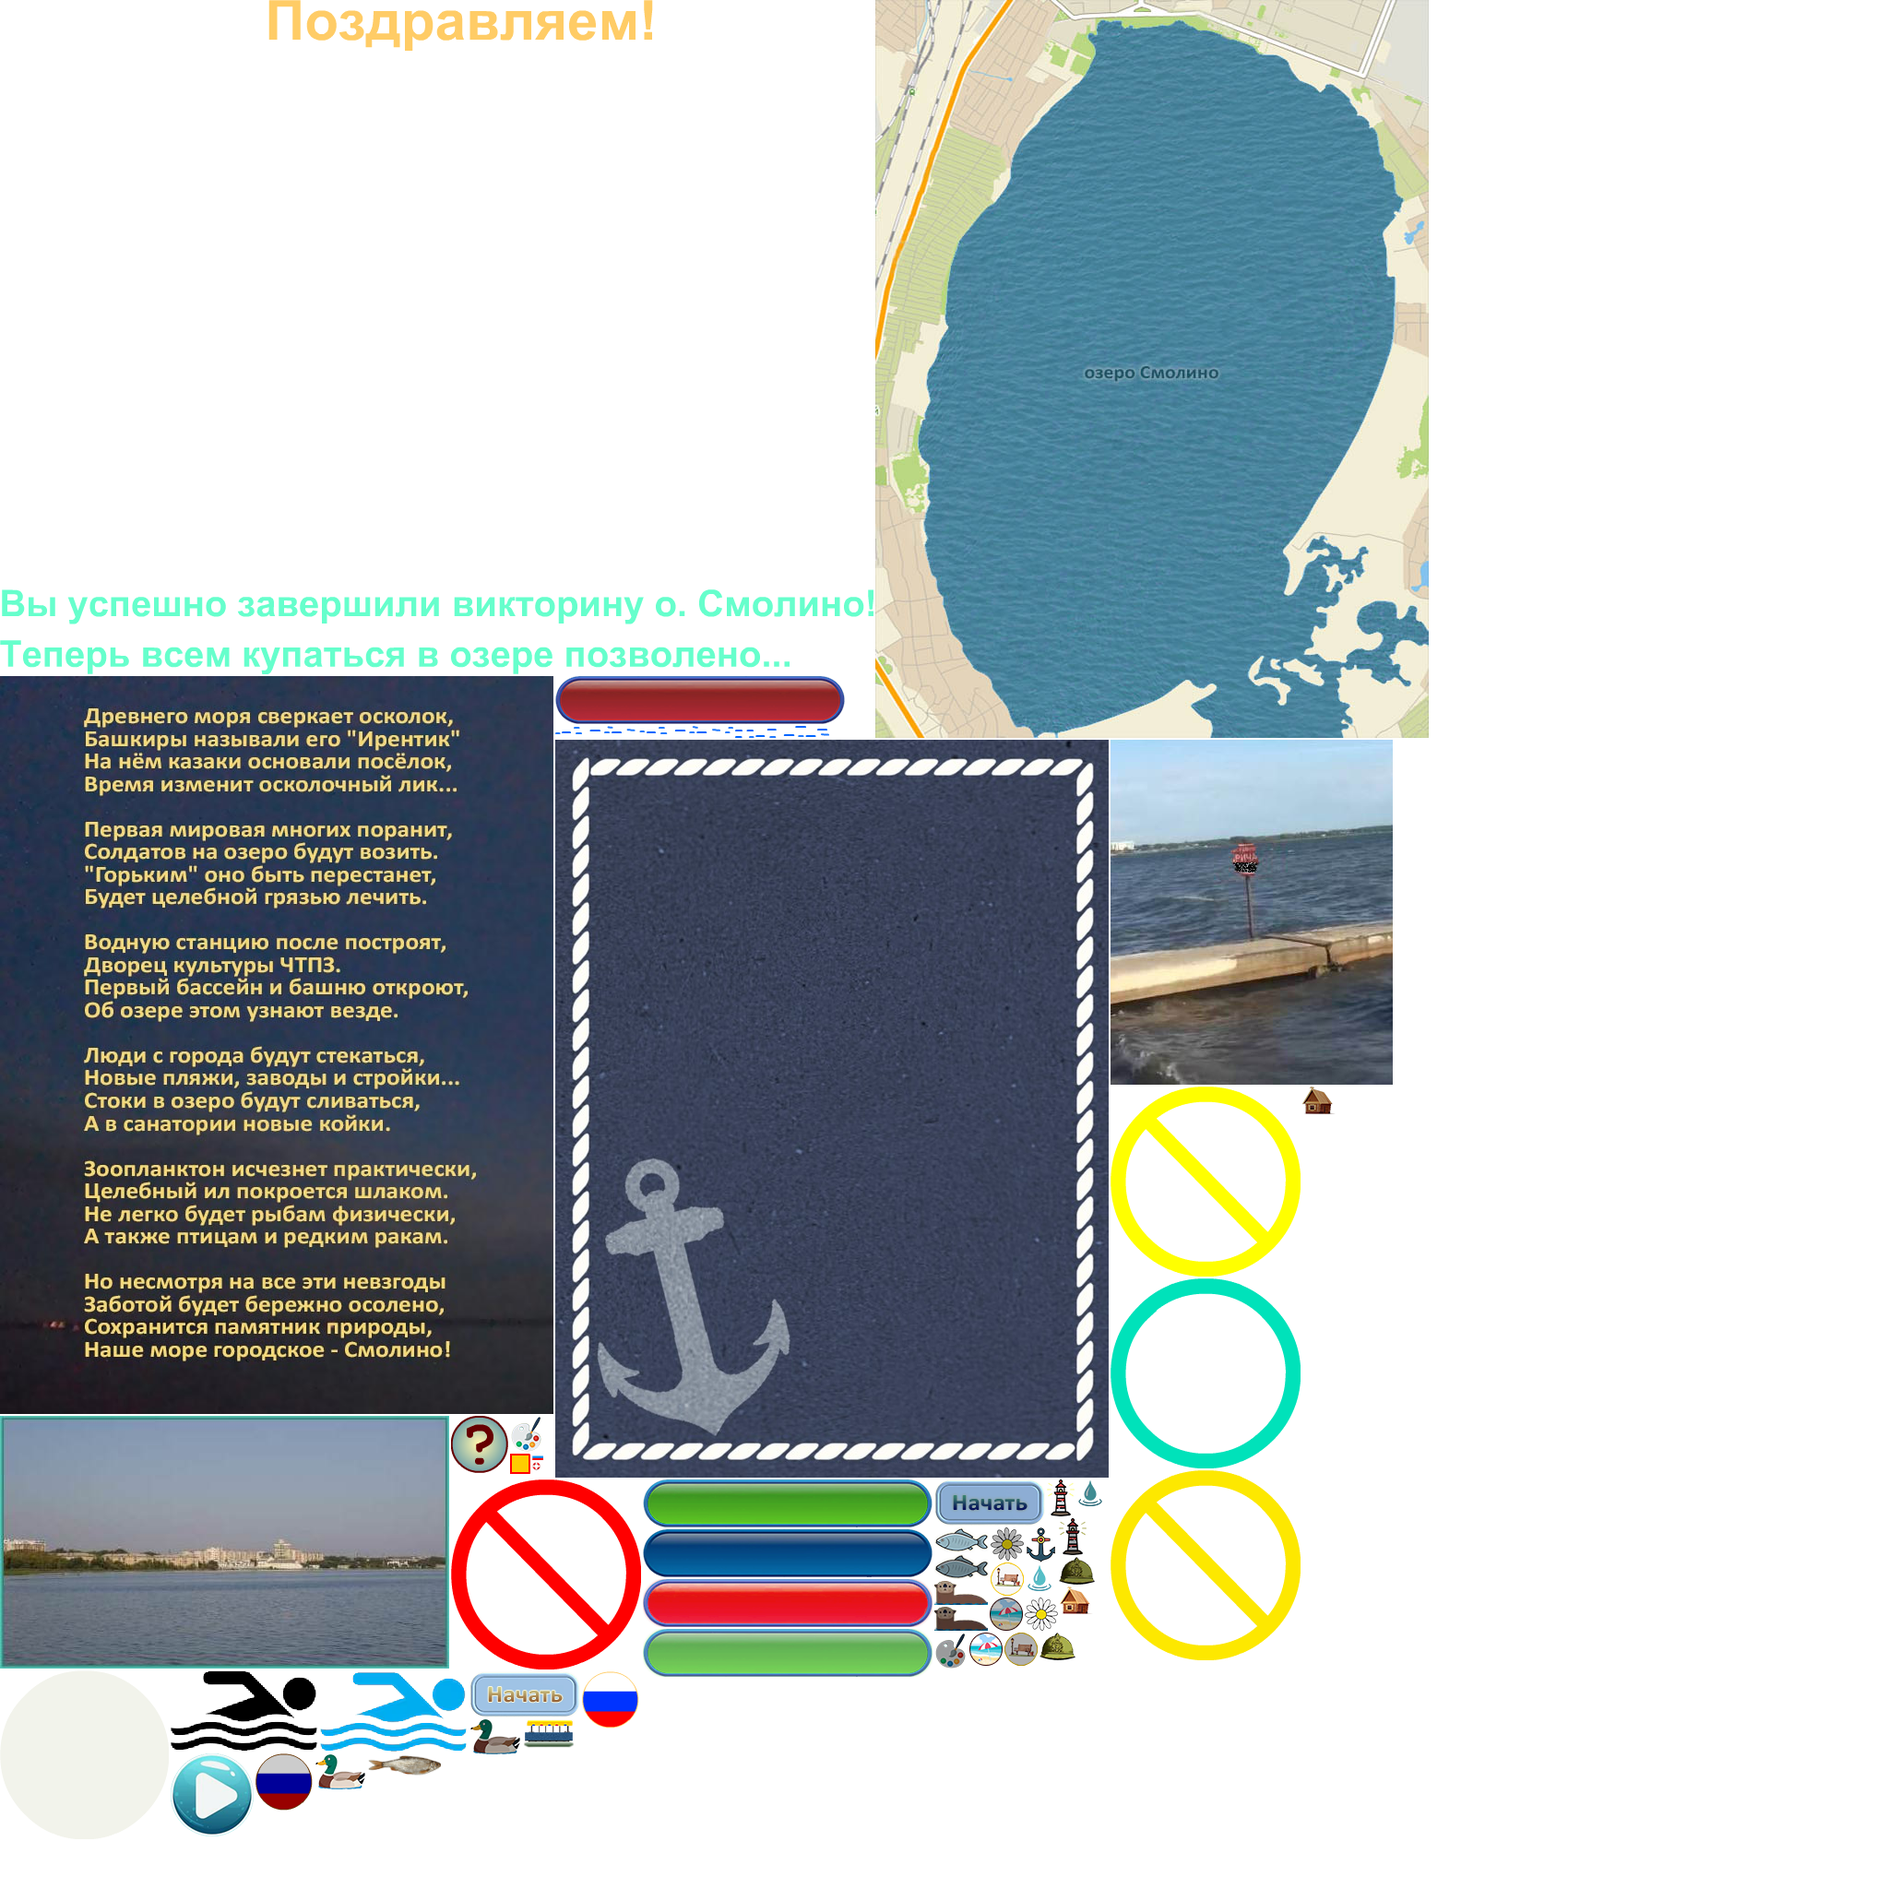
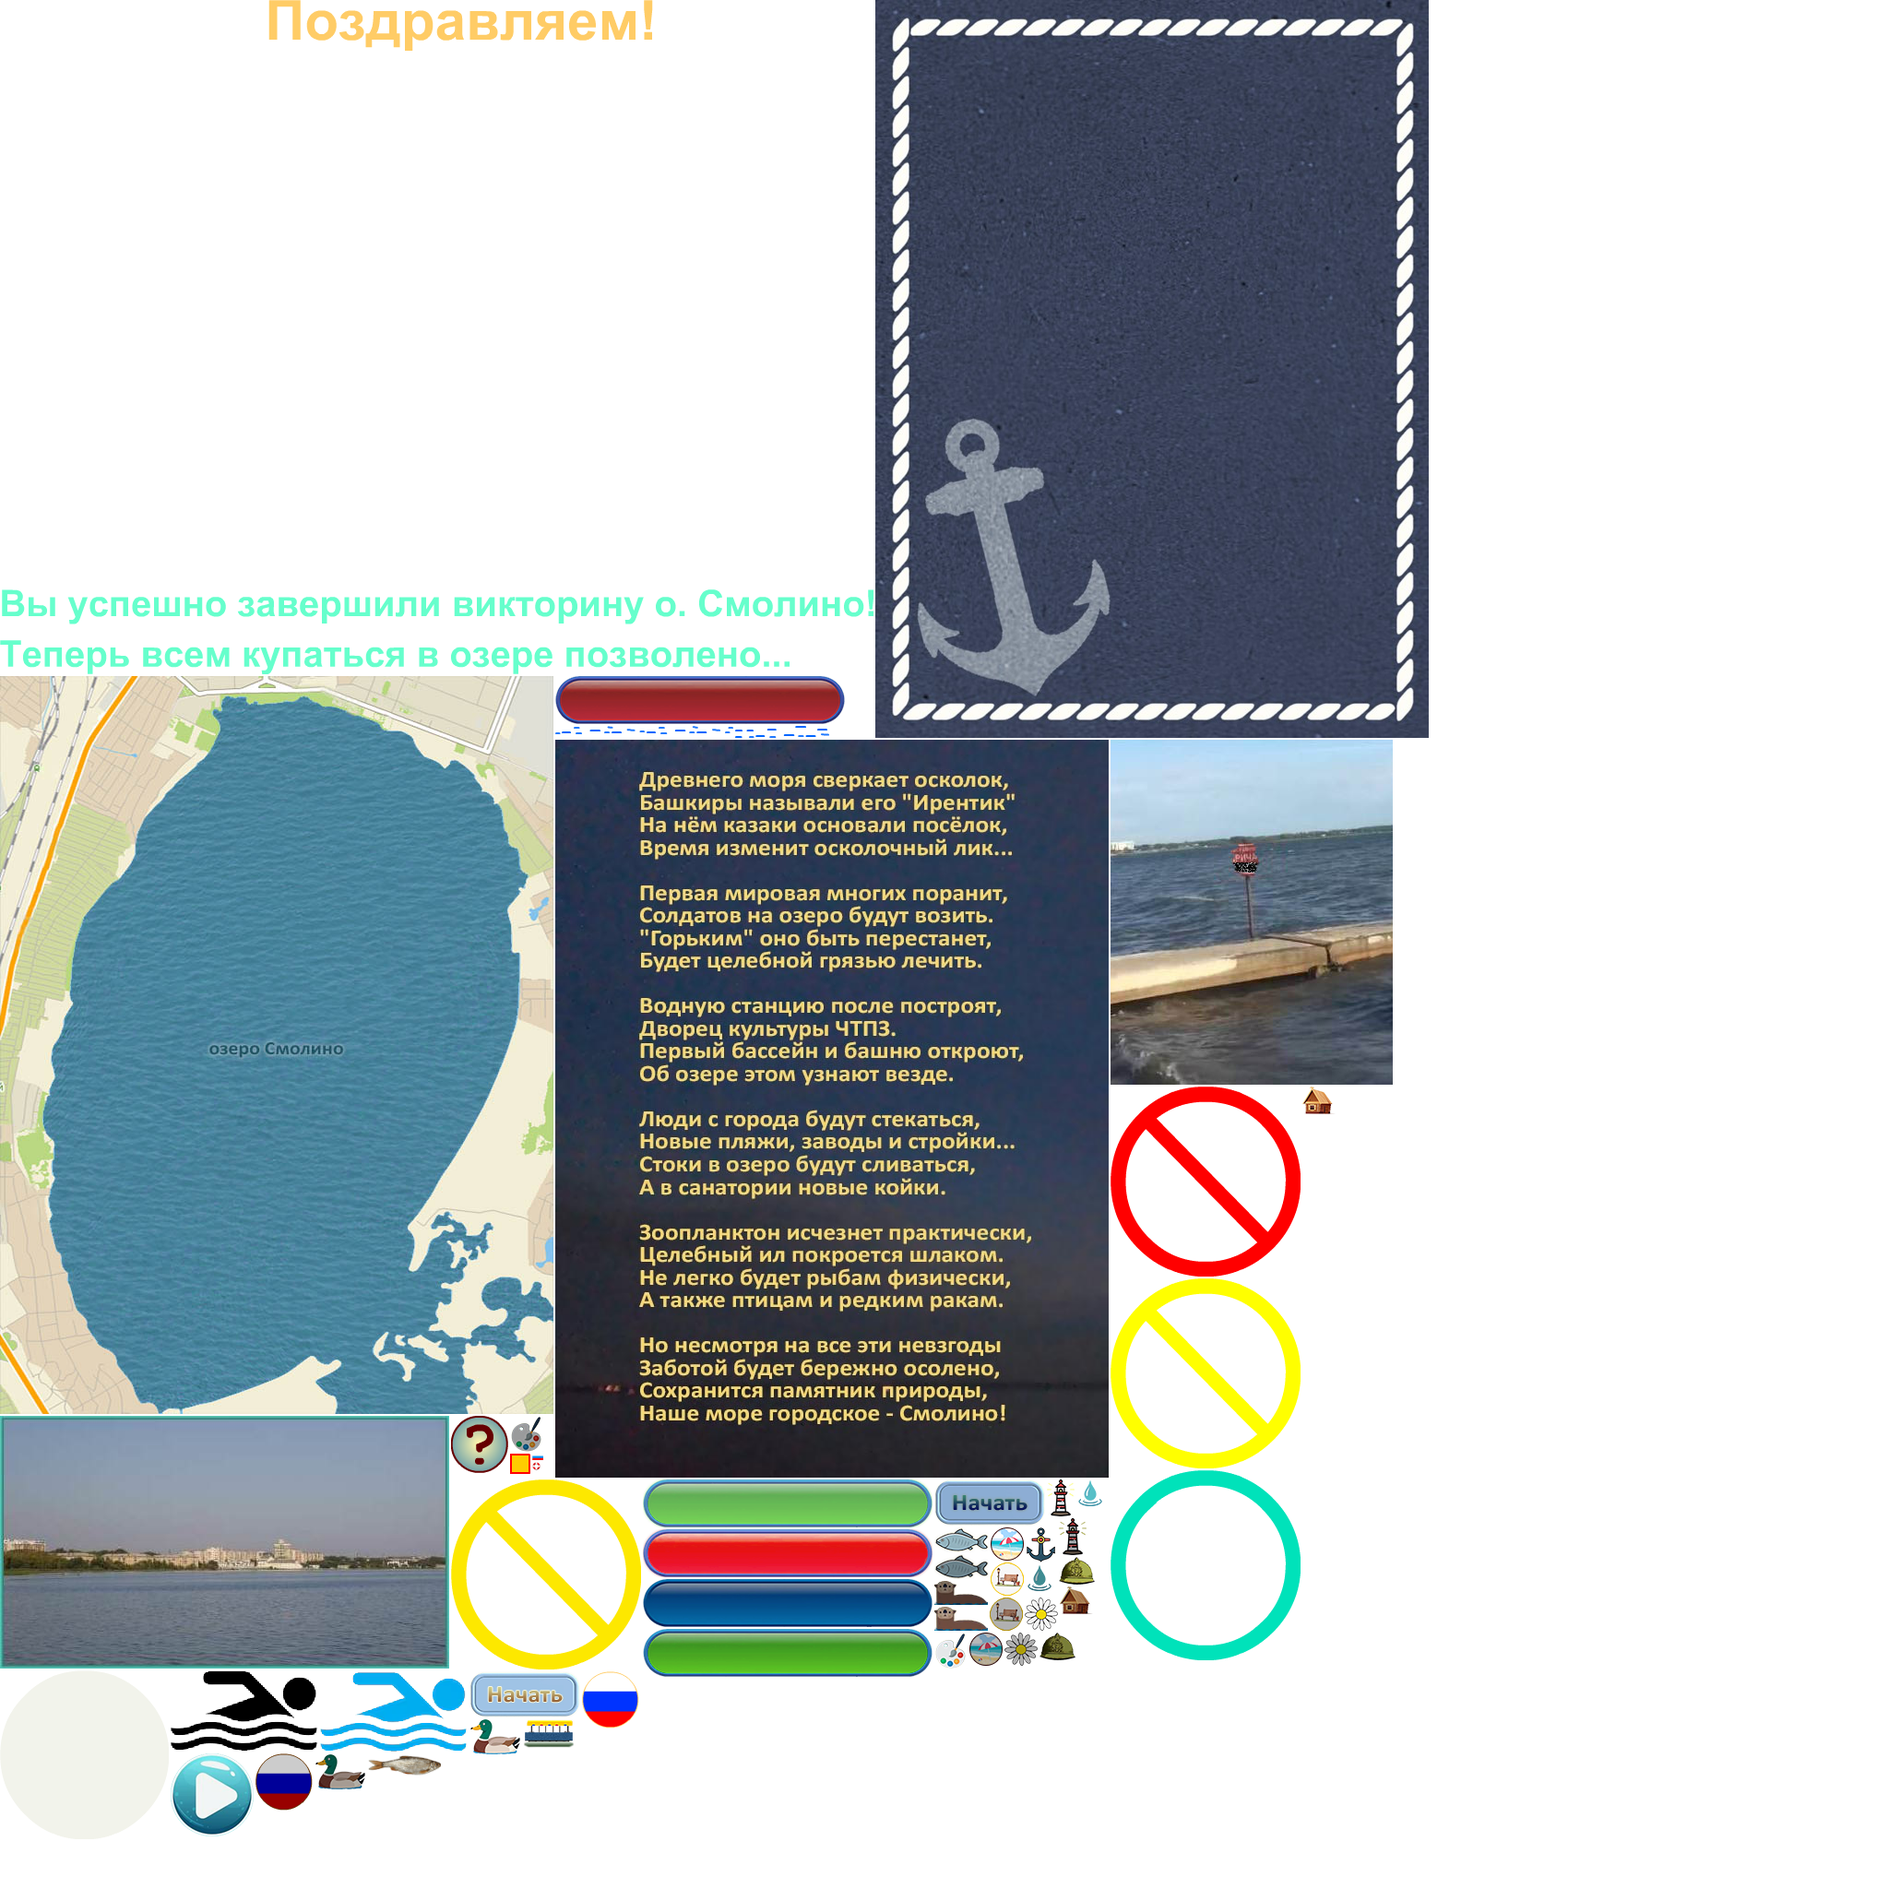
Add files via upload

diff --git a/smolino/Smolino.js b/smolino/Smolino.js
@@ -3,7 +3,7 @@
 var p; // shortcut to reference prototypes
 var lib={};var ss={};var img={};
 lib.ssMetadata = [
-		{name:"Smolino_atlas_", frames: [[1149,1720,36,30],[1412,1178,36,30],[1135,1604,30,40],[1148,1646,30,40],[1112,1656,34,38],[1051,1770,36,36],[1073,1732,36,36],[1013,1604,120,50],[509,1812,120,50],[577,1576,12,7],[1204,1178,206,206],[1204,1594,206,206],[489,1604,206,206],[1204,1386,206,206],[0,1811,183,183],[631,1812,62,62],[553,1576,22,22],[0,0,947,731],[489,1535,62,62],[277,1901,62,62],[797,787,100,6],[797,795,102,5],[602,787,97,9],[701,787,94,9],[1167,1636,22,5],[341,1902,56,38],[509,1864,56,38],[602,802,600,800],[1013,1656,59,27],[1013,1685,59,27],[1111,1732,36,36],[1074,1656,36,36],[1127,1770,39,30],[1148,1688,39,30],[577,1585,9,9],[1074,1694,36,36],[1089,1770,36,36],[185,1901,90,90],[1013,1714,58,26],[1013,1742,58,26],[553,1535,36,39],[1013,1770,36,39],[0,733,600,800],[1204,802,306,374],[567,1864,56,32],[399,1902,79,23],[0,1535,487,274],[949,0,600,800],[185,1811,160,88],[347,1812,160,88],[697,1658,314,52],[697,1604,314,52],[697,1766,314,52],[602,733,314,52],[697,1712,314,52],[1112,1696,30,30],[1167,1604,30,30]]}
+		{name:"Smolino_atlas_", frames: [[1412,1178,36,30],[1149,1720,36,30],[1135,1604,30,40],[1148,1646,30,40],[1112,1656,34,38],[1074,1656,36,36],[1051,1770,36,36],[1013,1604,120,50],[509,1812,120,50],[577,1576,12,7],[1204,1386,206,206],[489,1604,206,206],[1204,1178,206,206],[1204,1594,206,206],[0,1811,183,183],[631,1812,62,62],[553,1576,22,22],[0,0,947,731],[489,1535,62,62],[277,1901,62,62],[797,787,100,6],[797,795,102,5],[602,787,97,9],[701,787,94,9],[1167,1636,22,5],[509,1864,56,38],[341,1902,56,38],[949,0,600,800],[1013,1656,59,27],[1013,1685,59,27],[1111,1732,36,36],[1089,1770,36,36],[1148,1688,39,30],[1127,1770,39,30],[577,1585,9,9],[1074,1694,36,36],[1073,1732,36,36],[185,1901,90,90],[1013,1742,58,26],[1013,1714,58,26],[1013,1770,36,39],[553,1535,36,39],[602,802,600,800],[1204,802,306,374],[567,1864,56,32],[399,1902,79,23],[0,1535,487,274],[0,733,600,800],[185,1811,160,88],[347,1812,160,88],[697,1712,314,52],[697,1766,314,52],[697,1604,314,52],[602,733,314,52],[697,1658,314,52],[1167,1604,30,30],[1112,1696,30,30]]}
 ];
 
 
@@ -130,7 +130,7 @@ lib.ssMetadata = [
 
 
 
-(lib.CachedTexturedBitmap_22 = function() {
+(lib.CachedTexturedBitmap_21 = function() {
 	this.initialize(ss["Smolino_atlas_"]);
 	this.gotoAndStop(17);
 }).prototype = p = new cjs.Sprite();
@@ -795,7 +795,7 @@ p.nominalBounds = new cjs.Rectangle(0,0,120,50);
 	this.timeline.addTween(cjs.Tween.get(this).call(this.frame_0).wait(1).call(this.frame_1).wait(1).call(this.frame_2).wait(1));
 
 	// text
-	this.instance = new lib.CachedTexturedBitmap_22();
+	this.instance = new lib.CachedTexturedBitmap_21();
 	this.instance.parent = this;
 	this.instance.setTransform(64.55,68.65,0.5,0.5);
 	this.instance._off = true;
@@ -974,7 +974,7 @@ p.nominalBounds = new cjs.Rectangle(-135.4,0,582.9,52);
 		p = new createjs.Bitmap('pics/Smolino_lake.jpg');
 		this.qpics.addChild(p);
 		
-		textToType = " Осколком чего называют озеро\nСмолино?";
+		textToType = " Осколком чего называют озеро Смолино?";
 		
 		root.typingText();
 		
@@ -992,7 +992,7 @@ p.nominalBounds = new cjs.Rectangle(-135.4,0,582.9,52);
 		p = new createjs.Bitmap('pics/Smolino_20.jpg');
 		this.qpics.addChild(p);
 		
-		textToType = " А какое название практически вышло\nиз употребления к концу XIX века?";
+		textToType = " А какое название практически вышло из употребления к концу XIX века?";
 		
 		root.typingText();
 		
@@ -1011,7 +1011,7 @@ p.nominalBounds = new cjs.Rectangle(-135.4,0,582.9,52);
 	this.frame_3 = function() {
 		this.qpics.removeAllChildren();
 		
-		textToType = " В XVIII веке на западной стороне озера был\nоснован посёлок братьями Смолиными. Кем\nбыли эти братья?";
+		textToType = " В XVIII веке на западной стороне озера был основан посёлок братьями Смолиными. Кем были эти братья?";
 		
 		ra = 3;
 		
@@ -1026,7 +1026,7 @@ p.nominalBounds = new cjs.Rectangle(-135.4,0,582.9,52);
 		locomplete = true;
 	}
 	this.frame_4 = function() {
-		textToType = " Что делали на озере Смолино солдаты,\nпришедшие с фронта в годы Первой мировой\nвойны?";
+		textToType = " Что делали на озере Смолино солдаты, пришедшие с фронта в годы Первой мировой войны?";
 		
 		root.typingText();
 		
@@ -1073,7 +1073,7 @@ p.nominalBounds = new cjs.Rectangle(-135.4,0,582.9,52);
 		p = new createjs.Bitmap('pics/Sun_beach.jpg');
 		this.qpics.addChild(p);
 		
-		textToType = " Вход на пляж «Солнечный берег» в 2026\nгоду стал:";
+		textToType = " Вход на пляж «Солнечный берег» в 2026 году стал:";
 		
 		ra = 4;
 		
@@ -1091,7 +1091,7 @@ p.nominalBounds = new cjs.Rectangle(-135.4,0,582.9,52);
 	this.frame_10 = function() {
 		this.qpics.removeAllChildren();
 		
-		textToType = " Этот ручей, впадающий в Смолино, часто\nстановится объектом внимания экологов.\nИногда в него попадают стоки (например,\nкрасители при авариях на коммуникациях,\nа также прямой слив из частных домов).\n Как называется этот ручей?";
+		textToType = " Этот ручей, впадающий в Смолино, часто становится объектом внимания экологов.\nИногда в него попадают стоки (например, красители при авариях на коммуникациях, а также прямой слив из частных домов).\n Как называется этот ручей?";
 		
 		ra = 2;
 		
@@ -1108,7 +1108,7 @@ p.nominalBounds = new cjs.Rectangle(-135.4,0,582.9,52);
 	this.frame_11 = function() {
 		this.qpics.removeAllChildren();
 		
-		textToType = " Какие большие декоративные цветы с\nподсветкой установлены в Смолинском\nсквере?";
+		textToType = " Какие большие декоративные цветы с подсветкой установлены в Смолинском сквере?";
 		
 		ra = 1;
 		
@@ -1131,7 +1131,7 @@ p.nominalBounds = new cjs.Rectangle(-135.4,0,582.9,52);
 	this.frame_13 = function() {
 		this.qpics.removeAllChildren();
 		
-		textToType = " В 1948 году на озере была построена водная\nстанция. Там проводились турниры по\nплаванью и парусному спорту. Помимо\nстанции, на берегу появились: дворец\nкультуры ЧТПЗ, башня, плавучий ресторан\nи первый в городе ОН.";
+		textToType = " В 1948 году на озере была построена водная станция. Там проводились турниры по плаванью и парусному спорту.\n Помимо станции, на берегу появились: дворец культуры ЧТПЗ, башня, плавучий ресторан\nи первый в городе ОН.";
 		
 		ra = 3;
 		
@@ -1172,7 +1172,7 @@ p.nominalBounds = new cjs.Rectangle(-135.4,0,582.9,52);
 	this.frame_17 = function() {
 		this.qpics.removeAllChildren();
 		
-		textToType = " Однажды президент России каким-то\nобразом оказался рядом с пляжем на\nо. Смолино. Тогда вид пляжа его разочаровал\nи местные власти приказали засыпать его\nречным песком, расставить шезлонги и\nзонтики, провести генеральную уборку. Как\nтеперь называют этот пляж местные жители?";
+		textToType = " Однажды президент России каким-то образом оказался рядом с пляжем на о. Смолино. Тогда вид пляжа его разочаровал и местные власти приказали засыпать его речным песком, расставить шезлонги и зонтики, провести генеральную уборку.\n Как теперь называют этот пляж местные жители?";
 		
 		ra = 3;
 		
@@ -1268,7 +1268,7 @@ p.nominalBounds = new cjs.Rectangle(-135.4,0,582.9,52);
 		p = new createjs.Bitmap('pics/zaryblenie.jpg');
 		this.qpics.addChild(p);
 		
-		textToType = " С заботой об экологии в 2023 году в озеро\nвыпустили тысячи мальков этих рыб.";
+		textToType = " С заботой об экологии в 2023 году в озеро выпустили тысячи мальков этих рыб.";
 		
 		ra = 3;
 		
@@ -1291,7 +1291,7 @@ p.nominalBounds = new cjs.Rectangle(-135.4,0,582.9,52);
 		p = new createjs.Bitmap('pics/ondatra.jpg');
 		this.qpics.addChild(p);
 		
-		textToType = "Этот зверёк строит жилища на заболоченных\nучастках и при низких берегах. Питается\nтростником, камышом, рогозом и другими\nприбрежно-водными растениями.";
+		textToType = "Этот зверёк строит жилища на заболоченных участках и при низких берегах. Питается тростником, камышом, рогозом и другими прибрежно-водными растениями.";
 		
 		ra = 2;
 		
@@ -1930,7 +1930,7 @@ lib.properties = {
 	color: "#FFFFFF",
 	opacity: 1.00,
 	manifest: [
-		{src:"images/Smolino_atlas_.png?1788746420582", id:"Smolino_atlas_"}
+		{src:"images/Smolino_atlas_.png?1788826705343", id:"Smolino_atlas_"}
 	],
 	preloads: []
 };
